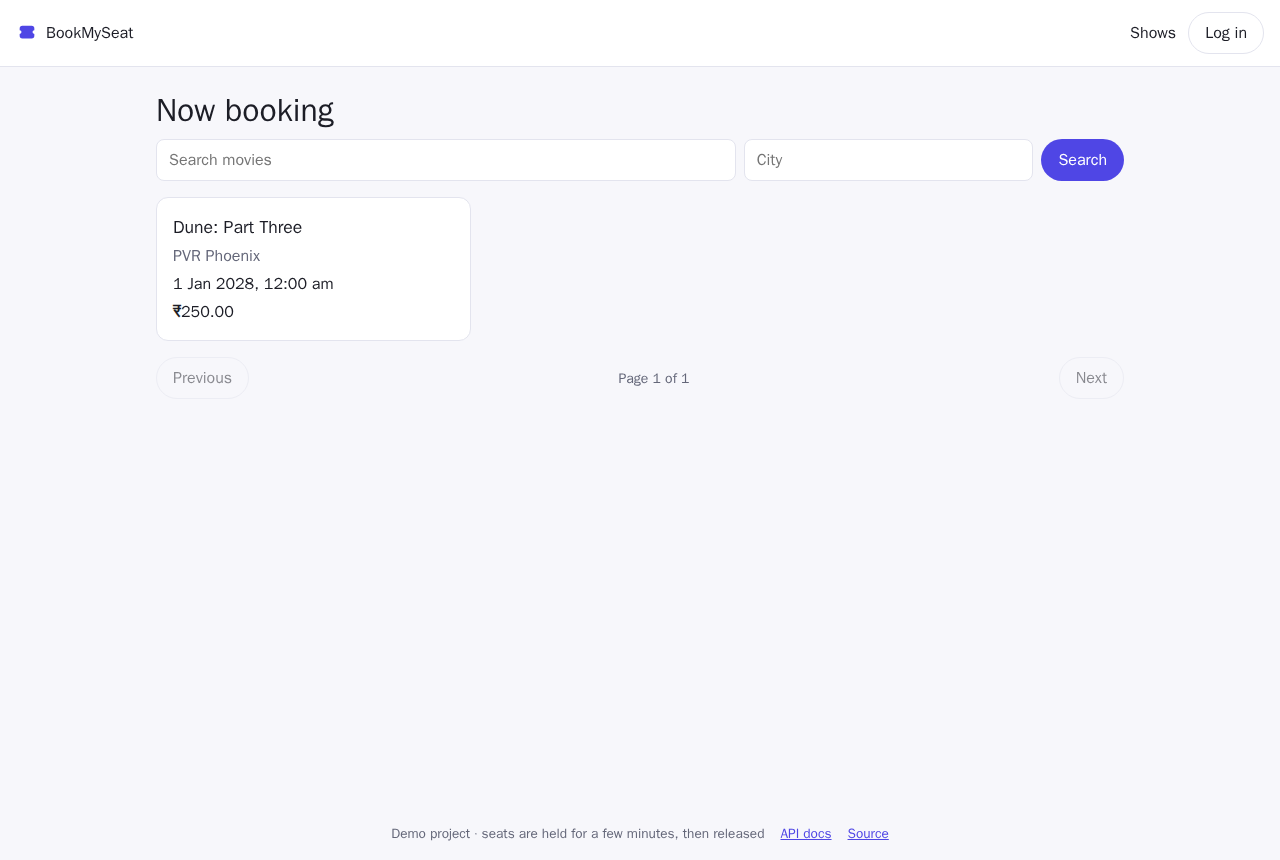
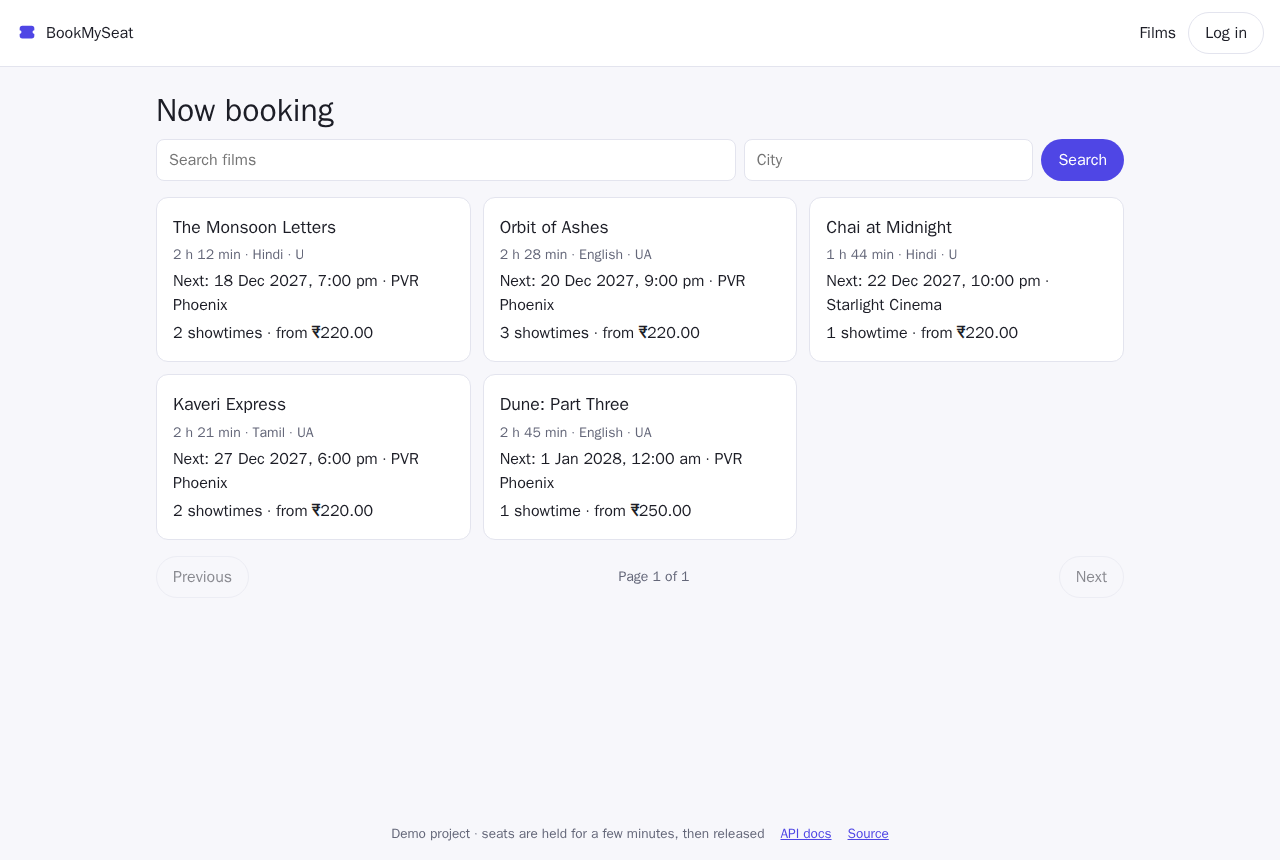
Week 27: finishing touches, a demo catalogue and fresh screenshots
- V23 drops the shows' rating columns (the second half of V22's two-release change: no running version reads them)
- the web app speaks of films: the top bar's Films, "All films" back links, "Find a film"
- admin Films page: newest first, a title search, 20 a page (with more than 100 films the list used to cut off)
- scripts/seed-demo.ps1: a catalogue of five films (runtime, language, certificate, synopsis; four made up) with ten showtimes in Mumbai and Pune, December 2027 to January 2028; idempotent (a second run only brings film details up to date) and it never changes or cancels a show
- screenshots retaken from a freshly seeded throwaway database: home (films), a film page, the seat map, the phone, the admin dashboard and a show's admin page
- README: the screenshots in Films, the demo data, a Status section (complete; what is left out and why), migrations up to V23, the roadmap; full verify: 220 tests, 94% of lines and 81% of branches covered; all 11 browser flows and the accessibility audit (145 checks) pass

diff --git a/src/main/resources/static/assets/app.js b/src/main/resources/static/assets/app.js
@@ -347,10 +347,10 @@ async function renderFilm(filmId, params) {
 async function renderShow(showId) {
 	const show = await api(`/api/shows/${showId}`);
 	if (show.status === 'CANCELLED') {
-		app.innerHTML = `<a href="#/" class="small">← All shows</a>
+		app.innerHTML = `<a href="#/" class="small">← All films</a>
 			<div class="card empty"><h1>${esc(show.title)}</h1><p><span class="status CANCELLED">CANCELLED</span></p>
 			<p class="muted">This show has been cancelled. Anyone who had booked it has been refunded and emailed.</p>
-			<a class="btn btn-primary" href="#/">Find another show</a></div>`;
+			<a class="btn btn-primary" href="#/">Find another film</a></div>`;
 		return;
 	}
 	let seats = await api(`/api/shows/${showId}/seats`);
@@ -385,7 +385,7 @@ async function renderShow(showId) {
 	await loadWait();
 
 	app.innerHTML = `
-		<a href="#/" class="small">← All shows</a>
+		<a href="#/" class="small">← All films</a>
 		<h1>${esc(show.title)}</h1>
 		<p class="muted">${esc(show.venueName)} · ${esc(when.format(new Date(show.startTime)))} · ${esc(runtimeText(show.runtimeMinutes))} · <span id="seat-prices"></span></p>
 		<p>${show.ratingCount ? `${ratingSummary(show)} · ` : ''}<a href="#/film/${esc(show.filmId)}">About the film and other showtimes</a></p>
@@ -784,7 +784,7 @@ async function renderShow(showId) {
 			stopTimers();
 			app.innerHTML = `<div class="card success"><div class="big" aria-hidden="true">↩</div><h1>Seats no longer available</h1>
 				<p>Your payment arrived too late to book these seats (they were taken, or the promo code ran out), so it is being refunded in full.</p>
-				<a class="btn btn-primary" href="#/">Back to shows</a></div>`;
+				<a class="btn btn-primary" href="#/">Back to films</a></div>`;
 			focusStart(app.querySelector('h1'));
 		}
 	}
@@ -885,7 +885,7 @@ async function renderBookings() {
 				</div>`).join('')}
 		</div>`;
 	if (bookings.length === 0) {
-		app.innerHTML = `<h1>My bookings</h1>${waitlistHtml}<div class="card empty"><p>No bookings yet.</p><a class="btn btn-primary" href="#/">Find a show</a></div>`;
+		app.innerHTML = `<h1>My bookings</h1>${waitlistHtml}<div class="card empty"><p>No bookings yet.</p><a class="btn btn-primary" href="#/">Find a film</a></div>`;
 		bindLeave();
 		return;
 	}
@@ -1176,11 +1176,11 @@ async function renderVerify(token) {
 		}
 		app.innerHTML = `<div class="card success"><div class="big" aria-hidden="true">✓</div>
 			<h1>Email confirmed</h1><p class="muted">${esc(result.email)} is verified. Thanks!</p>
-			<a class="btn btn-primary" href="#/">Find a show</a></div>`;
+			<a class="btn btn-primary" href="#/">Find a film</a></div>`;
 	} catch (e) {
 		app.innerHTML = `<div class="card empty"><h1>Link not valid</h1><p class="muted">${esc(e.message)}</p>
 			${state.user && !state.user.emailVerified ? '<button class="btn btn-primary" type="button" id="verify-again">Send a new link</button>' : ''}
-			<a class="btn btn-ghost" href="#/">Back to shows</a></div>`;
+			<a class="btn btn-ghost" href="#/">Back to films</a></div>`;
 		document.getElementById('verify-again')?.addEventListener('click', resendVerification);
 	}
 }
@@ -1209,7 +1209,7 @@ function renderForgot() {
 			form.parentElement.innerHTML = `<h1>Check your inbox</h1>
 				<p>If there's an account for <strong>${esc(email)}</strong>, we've emailed it a link to reset the password.
 				The link works once and expires in 1 hour. Check the spam folder too.</p>
-				<a class="btn btn-ghost" href="#/">Back to shows</a>`;
+				<a class="btn btn-ghost" href="#/">Back to films</a>`;
 		} catch (e) {
 			error.textContent = e.message;
 			error.hidden = false;
@@ -1334,11 +1334,11 @@ async function renderRoute() {
 			else if (path === '/admin/check-in') await admin.renderCheckIn(new URLSearchParams(query));
 			else if (path === '/admin/promo-codes') await admin.renderPromoCodes();
 			else if (path === '/admin/reviews') await admin.renderReviews(new URLSearchParams(query));
-			else if (path === '/admin/films') await admin.renderFilms();
+			else if (path === '/admin/films') await admin.renderFilms(new URLSearchParams(query));
 			else await admin.renderAdmin(new URLSearchParams(query));
 		} else if (show) await renderShow(show[1]);
 		else if (verify) await renderVerify(verify[1]);
-		else if (path === '/verify') app.innerHTML = '<div class="card empty"><p>Done here.</p><a class="btn btn-primary" href="#/">Find a show</a></div>';
+		else if (path === '/verify') app.innerHTML = '<div class="card empty"><p>Done here.</p><a class="btn btn-primary" href="#/">Find a film</a></div>';
 		else if (path === '/bookings') await renderBookings();
 		else if (path === '/account') await renderAccount();
 		else if (ticket) await renderTicket(ticket[1]);
@@ -1347,10 +1347,10 @@ async function renderRoute() {
 		else if (filmReview) await renderReview(filmReview[1]);
 		else if (path === '/forgot') renderForgot();
 		else if (reset) renderReset(reset[1]);
-		else if (path === '/reset') app.innerHTML = '<div class="card empty"><p>Done here.</p><a class="btn btn-primary" href="#/">Find a show</a></div>';
+		else if (path === '/reset') app.innerHTML = '<div class="card empty"><p>Done here.</p><a class="btn btn-primary" href="#/">Find a film</a></div>';
 		else await renderHome(new URLSearchParams(query));
 	} catch (e) {
-		app.innerHTML = `<div class="card empty"><h1>Something went wrong</h1><p class="muted">${esc(e.message)}</p><a href="#/">Back to shows</a></div>`;
+		app.innerHTML = `<div class="card empty"><h1>Something went wrong</h1><p class="muted">${esc(e.message)}</p><a href="#/">Back to films</a></div>`;
 	}
 	window.scrollTo(0, 0);
 	const heading = app.querySelector('h1');

diff --git a/src/main/resources/static/assets/admin.js b/src/main/resources/static/assets/admin.js
@@ -776,11 +776,19 @@ export async function renderReviews(params) {
 
 // ---------- #/admin/films ----------
 
-export async function renderFilms() {
+export async function renderFilms(params) {
 	if (!requireAdmin()) return;
+	// Newest first (a film just created is on top), 20 a page, with a title search: the catalogue can grow long
+	const q = params.get('q') || '';
+	const page = Number(params.get('page') || 0);
+	const pageLink = (p) => `#/admin/films?${new URLSearchParams({ ...(q ? { q } : {}), page: String(p) })}`;
 	app.innerHTML = `
 		<a href="#/admin" class="small">← Admin</a>
 		<h1>Films</h1>
+		<form class="search" id="film-search" role="search">
+			<input name="q" value="${esc(q)}" placeholder="Search titles" aria-label="Search films by title">
+			<button class="btn btn-ghost">Search</button>
+		</form>
 		<div id="film-list"><p class="muted">Loading…</p></div>
 		<h2 id="film-form-h">New film</h2>
 		<form class="card admin-form" id="film-form" novalidate aria-labelledby="film-form-h">
@@ -829,8 +837,13 @@ export async function renderFilms() {
 			const saved = editing
 				? await api(`/api/admin/films/${editing.id}`, { method: 'PUT', auth: true, body })
 				: await api('/api/admin/films', { method: 'POST', auth: true, body });
-			toast(editing ? `Saved ${saved.title}` : `Created ${saved.title}`);
+			const created = !editing;
+			toast(created ? `Created ${saved.title}` : `Saved ${saved.title}`);
 			setMode(null);
+			if (created && (page !== 0 || q)) {
+				location.hash = '#/admin/films'; // a new film is on top of the first, unfiltered page
+				return;
+			}
 			await load();
 			document.querySelector(`#film-list [data-film="${saved.id}"]`)?.focus();
 		} catch (e) {
@@ -841,12 +854,22 @@ export async function renderFilms() {
 		}
 	};
 
+	document.getElementById('film-search').onsubmit = (event) => {
+		event.preventDefault();
+		const text = event.target.q.value.trim();
+		location.hash = `#/admin/films${text ? `?q=${encodeURIComponent(text)}` : ''}`;
+	};
+
 	async function load() {
-		const result = await api('/api/admin/films?size=100', { auth: true });
+		const filter = new URLSearchParams({ size: '20', page: String(page), sort: 'createdAt,desc' });
+		if (q) filter.set('q', q);
+		const result = await api(`/api/admin/films?${filter}`, { auth: true });
 		const box = document.getElementById('film-list');
 		if (!box) return;
 		if (result.content.length === 0) {
-			box.innerHTML = '<div class="card empty"><p class="muted">No films yet. Create one below, or create a show with a new title.</p></div>';
+			box.innerHTML = q
+				? `<div class="card empty"><p class="muted">No film's title contains "${esc(q)}".</p></div>`
+				: '<div class="card empty"><p class="muted">No films yet. Create one below, or create a show with a new title.</p></div>';
 			return;
 		}
 		box.innerHTML = `
@@ -861,6 +884,11 @@ export async function renderFilms() {
 					<td class="num">${f.shows}</td>
 					<td><button class="btn btn-ghost btn-small" data-edit="${f.id}" aria-label="Edit ${esc(f.title)}">Edit</button></td>
 				</tr>`).join('')}</tbody></table></div>
+			<div class="row spread pager">
+				<a class="btn btn-ghost" ${page === 0 ? 'aria-disabled="true"' : `href="${pageLink(page - 1)}"`}>Previous</a>
+				<span class="muted small">Page ${result.page + 1} of ${Math.max(result.totalPages, 1)} · ${result.totalElements} film${result.totalElements === 1 ? '' : 's'}</span>
+				<a class="btn btn-ghost" ${page + 1 >= result.totalPages ? 'aria-disabled="true"' : `href="${pageLink(page + 1)}"`}>Next</a>
+			</div>
 			<p class="muted small">A new title is carried to the film's shows; a new runtime moves the end of their calendar events and when people are asked how it was.</p>`;
 		box.querySelectorAll('[data-edit]').forEach((b) => {
 			b.onclick = () => {

diff --git a/src/main/resources/static/index.html b/src/main/resources/static/index.html
@@ -17,7 +17,7 @@
 			<span>BookMySeat</span>
 		</a>
 		<nav class="nav">
-			<a href="#/">Shows</a>
+			<a href="#/">Films</a>
 			<a href="#/bookings" data-auth-only hidden>My bookings</a>
 			<a href="#/admin" data-admin-only hidden>Admin</a>
 			<a class="who" href="#/account" data-auth-only hidden title="Your account"></a>

diff --git a/README.md b/README.md
@@ -304,6 +304,11 @@ sequenceDiagram
 
 A film is what its screenings have in common: title, runtime, language, certificate (U, UA, A, S) and a synopsis. Admins keep them on the **Films** page; a show belongs to one film.
 
+<p>
+  <img src="docs/screenshots/home.png" alt="Home page: five films, each with its runtime, language, certificate, next showtime, number of showtimes and cheapest seat" width="49%">
+  <img src="docs/screenshots/film.png" alt="A film's page: its synopsis and three showtimes in Mumbai and Pune, grouped by day, each with its cheapest seat" width="49%">
+</p>
+
 ```mermaid
 flowchart LR
     F[(films<br/>title unique ignoring case<br/>runtime, rating sum and count)] --- S1[(show: Pune, Fri 6:30 pm)]
@@ -530,7 +535,7 @@ A small single-page app served by the same Spring Boot server at `/` (same origi
 | Waitlist | A sold-out show offers **Join waitlist** (1 to 6 seats) and then shows your place in line; an offer appears within one refresh as held seats with a countdown, to book or **Decline**. My bookings lists your places in line |
 | Payments | When payments are on, **Pay** opens Razorpay Checkout and the page verifies the result (the webhook confirms too, even if the tab is closed) |
 | Sessions | Access token in memory only; the refresh token in `sessionStorage`, renewed automatically on a `401` |
-| Admin pages | Dashboard, new show form, a page per show, **Films** (create and edit, with their number of shows), **Promo codes** (create codes with a live example of the discount, see their uses, switch them off) and **Reviews** (all, visible or hidden; hide or show again) for admins (see [Admin dashboard](#admin-dashboard)) |
+| Admin pages | Dashboard, new show form, a page per show, **Films** (newest first with a title search, 20 a page; create and edit, with their number of shows), **Promo codes** (create codes with a live example of the discount, see their uses, switch them off) and **Reviews** (all, visible or hidden; hide or show again) for admins (see [Admin dashboard](#admin-dashboard)) |
 | Reviews | The film's page and its screenings carry the average ("★ 4.3 · 12 reviews") and list the reviews, newest or highest rated first. After the start, My bookings swaps **Cancel** for **Rate this film** (or your stars, to edit). The review page is a 5-star radio group (arrow keys work, lit stars are filled and the others outlined, so not only the colour tells them apart) and an optional text |
 | E-tickets | A **Ticket** button on each booking: QR code, seats and code, and "checked in" once scanned. **Add to calendar** on the ticket and in My bookings downloads the `.ics` (with the login token, so through a `blob:` URL) |
 | Check-in (admins) | Pick the show, then scan tickets with the phone camera or type the code; a big green or red answer and a live "12 of 40 checked in" counter |
@@ -661,7 +666,7 @@ Otherwise the JVM in 512 MB refuses to start (`Unable to use AOT cache`). Compac
 
 **Small-instance tuning:** `JAVA_TOOL_OPTIONS=-XX:MaxRAMPercentage=60 -XX:+UseSerialGC -XX:TieredStopAtLevel=1 -Xss512k` keeps memory around 300 MB of the 512 MB limit (measured in a local container limited to 512 MB and 0.1 CPU) and suits a single slow CPU.
 
-**Demo data:** [`scripts/seed-demo.ps1`](scripts/seed-demo.ps1) creates the venue, a far-future show with 50 seats (a premium row, a recliner row and a centre aisle), and the demo user. It is idempotent (safe to re-run), and the admin password is only ever passed as a parameter:
+**Demo data:** [`scripts/seed-demo.ps1`](scripts/seed-demo.ps1) creates the demo show "Dune: Part Three" with 50 seats (a premium row, a recliner row and a centre aisle), the demo user, and a small catalogue: five films with their runtime, language, certificate and synopsis (four of them made up) and ten showtimes in Mumbai and Pune, all between December 2027 and January 2028 so the demo never runs out of bookable shows. It is idempotent: a second run skips everything that exists and only brings film details up to date; it never changes or cancels a show. The admin password is only ever passed as a parameter:
 
 ```powershell
 .\scripts\seed-demo.ps1 -BaseUrl https://bookmyseat-8j1e.onrender.com -AdminEmail <admin> -AdminPassword '<admin password>'
@@ -712,7 +717,7 @@ Otherwise the JVM in 512 MB refuses to start (`Unable to use AOT cache`). Compac
 | Unit (JUnit + Mockito, milliseconds) | `BookingServiceTest` | Cancellation cutoff boundaries and the "show already started" rule, with a fixed `Clock` |
 | Integration (Testcontainers) | `SeatHoldConcurrencyTest` | 50 concurrent holds on one seat in real Redis: exactly 1 wins |
 | Integration (Testcontainers) | `BookingConcurrencyTest` | 50 concurrent confirms in real PostgreSQL: exactly 1 booking |
-| Integration (Testcontainers) | `BookMySeatApplicationTests` | The app starts and every Flyway migration (V1 to V22) applies to an empty database |
+| Integration (Testcontainers) | `BookMySeatApplicationTests` | The app starts and every Flyway migration (V1 to V23) applies to an empty database |
 | HTTP (MockMvc + Testcontainers) | `BusinessMetricsTest` | Seats by category, booking value, cancellations by customer or show, counters at 0 from startup, nothing counted for a rolled-back transaction, outbox gauges |
 | HTTP (MockMvc + Testcontainers) | `LoginConnectionTest` | The password check runs with no transaction open, so a login doesn't hold a database connection during BCrypt |
 | Integration (real HTTP + fake OTLP gateway) | `OtlpExportTest` | Metrics and traces arrive gzipped with the auth header and resource attributes; the request's span carries its request id, its database queries are spans with `?` instead of parameter values, health probes make none, the log line has the trace id |
@@ -751,6 +756,20 @@ The integration tests need Docker and never touch your dev database. GitHub Acti
 - [x] **Week 24:** best seats in one click: the best block of seats together (middle of the row, about two thirds back, never across an aisle), held in the same call and picked again when someone was faster (8 people at once never share a seat); calendar events (`.ics`) in the confirmation email, an updated one when a show moves, and **Add to calendar** on the ticket; outbox emails with several attachments, migrated without losing one during a deploy
 - [x] **Week 25:** reviews and ratings by people who went: an average kept by atomic updates (exact under parallel saves; the lock's test fails without it) and cleared from the cache after commit, a "How was it?" email after the show, an admin Reviews page to hide spam, a 5-star radio group that works with the keyboard, and a browser test; the attachment columns that V19 replaced dropped in V21
 - [x] **Week 26:** films: a film groups its screenings (title, runtime, language, certificate, synopsis), the home page lists films with their rating, next showtime and cheapest seat, a film page with showtimes by day, reviews once per person per film across its screenings, the runtime in the calendar event and the review email, an admin Films page; existing shows and ratings moved over by V22
+- [x] **Week 27:** finishing: the shows' old rating columns dropped (V23, the second half of V22's two-release change), the web app speaks of films throughout, a seeded demo catalogue of five films and ten showtimes in two cities, fresh screenshots taken from a clean seeded database
+
+## Status
+
+**Complete.** Everything on the roadmap is built, tested (unit, HTTP and race tests against real PostgreSQL and Redis, browser tests for every flow, an accessibility audit) and deployed. What it deliberately leaves out, and why:
+
+| Left out | Why |
+|---|---|
+| Real payments | Razorpay runs in test mode: a public demo shouldn't take money. Switching to live keys is configuration, not code |
+| Film posters and trailers | They need file storage and a CDN; the Content-Security-Policy only allows the app's own images today |
+| Several cinema chains, seat maps per screen | A venue has one hall, and each show generates its own seat map |
+| Instant wake-up | Render's free tier sleeps after 15 idle minutes and takes 2 to 3 minutes to wake; the start page shows the wait. A paid instance stays awake |
+
+The demo video and its GIF at the top were recorded before films existed: the booking itself (seats, hold, countdown, confirm) is unchanged, but the home page now lists films.
 
 ## Author
 
